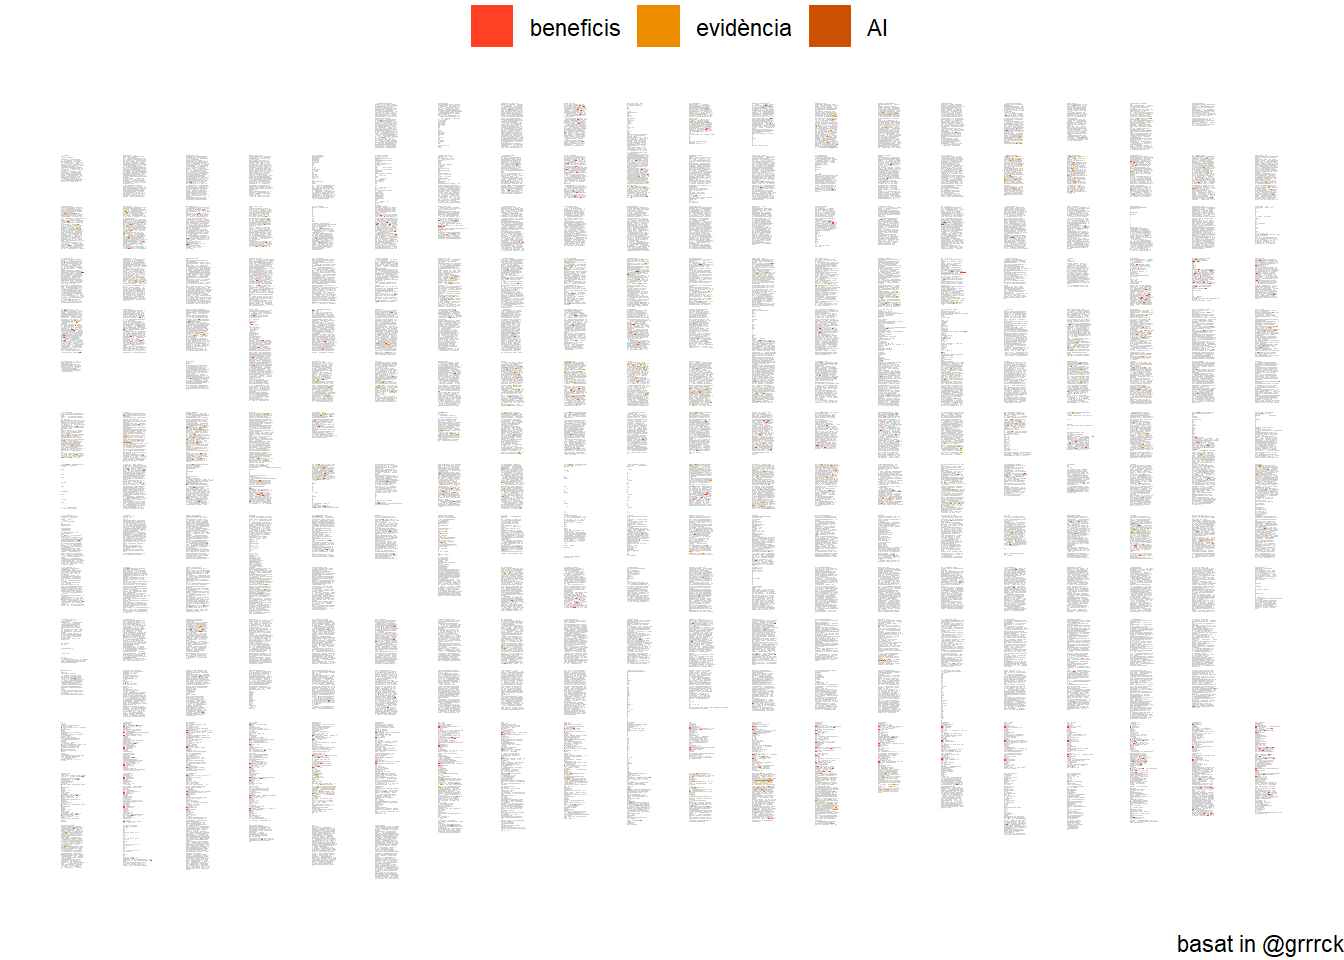
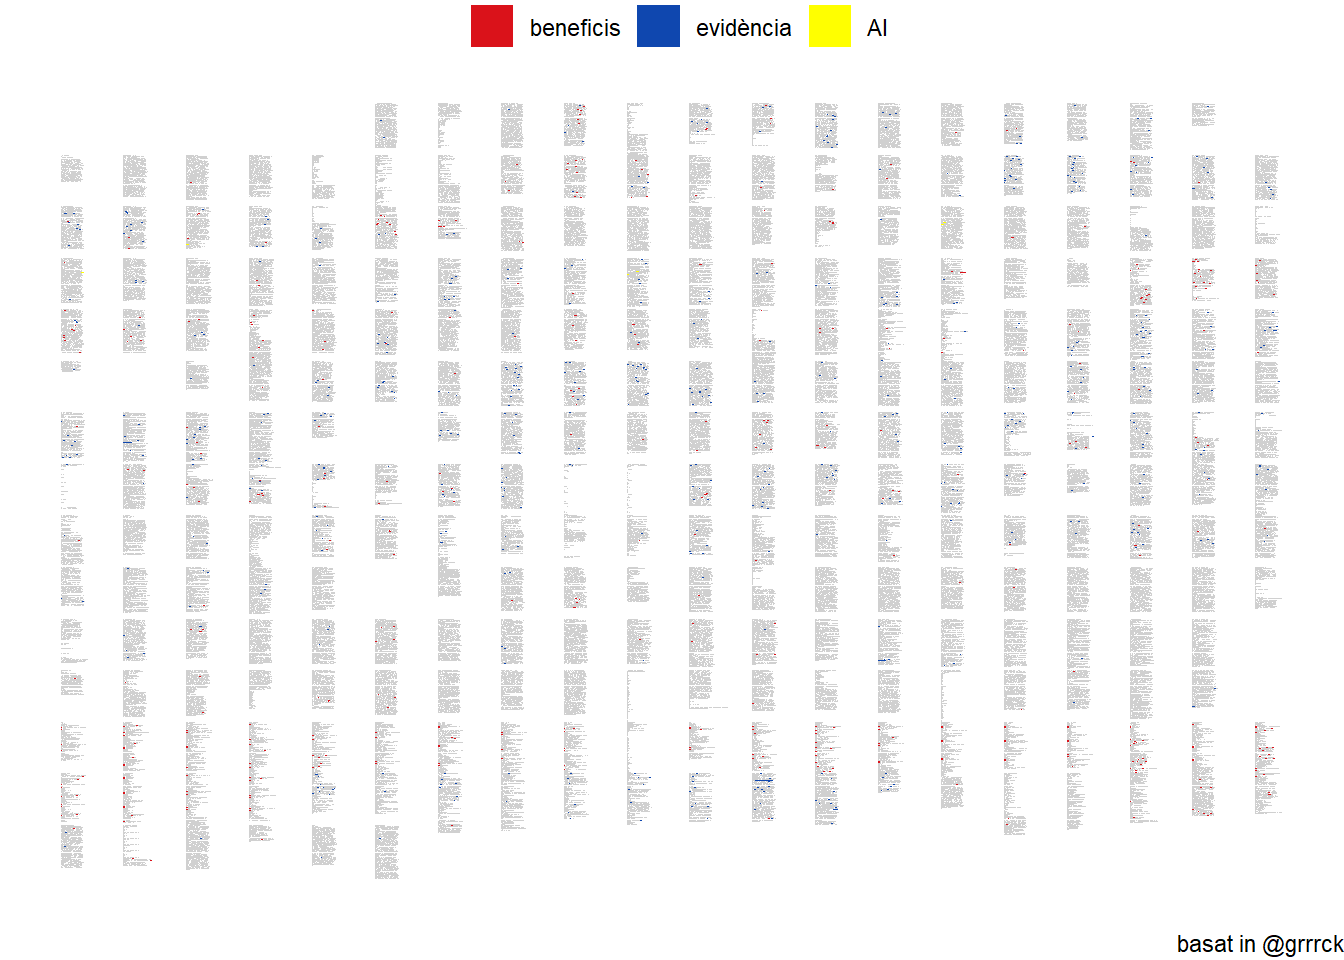
update

Changed region(s): [[0.5938, 0.0, 0.6562, 0.0625], [0.4688, 0.0, 0.5312, 0.0625], [0.3438, 0.0, 0.4062, 0.0625]]

diff --git a/blog/pdf-to-text/index.html b/blog/pdf-to-text/index.html
@@ -1179,7 +1179,6 @@ library(ggpage)
 library(tidytext)
 library(stringr)
 library(pdftools)
-library(tidyverse)
 
 #llegeixo pdf ja baixat de la URL (http://documents.worldbank.org/curated/en/993911574784667955/pdf/Exploring-Universal-Basic-Income-A-Guide-to-Navigating-Concepts-Evidence-and-Practices.pdf) al meu directori local i amb el paquet pdftools el transformo en un csv per a que estigui en format tidytext
 meu_text &lt;- pdftools::pdf_text(&quot;Exploring-Universal-Basic-Income-A-Guide-to-Navigating-Concepts-Evidence-and-Practices.pdf&quot;)
@@ -1214,11 +1213,10 @@ report_net &lt;- report_net %&gt;%
   anti_join(meus_stop_words)
 
 recompte_paraules &lt;- report_net %&gt;%
-  count(word, sort = TRUE) %&gt;%
-  filter(!str_detect(word, &quot;[0-9]&quot;)) # remove numbers
+  count(word, sort = TRUE)
 
 recompte_paraules</code></pre>
-<pre><code>## # A tibble: 10,109 x 2
+<pre><code>## # A tibble: 11,806 x 2
 ##    word          n
 ##    &lt;chr&gt;     &lt;int&gt;
 ##  1 income     1661
@@ -1231,23 +1229,23 @@ recompte_paraules</code></pre>
 ##  8 programs    455
 ##  9 policy      453
 ## 10 poverty     453
-## # ... with 10,099 more rows</code></pre>
+## # ... with 11,796 more rows</code></pre>
 <p>Els Països que apareixen més mencionats en aquest informe son: India (140), Brasil (66), Regne Unit (57), Indonesia (51), Russia (44), Chile (42), Mozambique i Finlandia (38).</p>
 <p>Puc fer un núvol de paraules per representar les paraules més freqüents</p>
 <pre class="r"><code>library(wordcloud)
 wordcloud(words = recompte_paraules$word, freq = recompte_paraules$n, min.freq = 1,
-          max.words=150, random.order=FALSE, rot.per=0.35, 
-          colors=brewer.pal(6, &quot;YlOrRd&quot;))</code></pre>
+          max.words=125, random.order=FALSE, rot.per=0.35, 
+          colors=brewer.pal(4, &quot;Set1&quot;))</code></pre>
 <p><img src="/blog/2020-03-29-pdf-to-text_files/figure-html/unnamed-chunk-3-1.png" width="672" /></p>
 <p>Estaria bé també veure si apareixen alguns conceptes que m’interessen com per exemple: “Intel·ligència Artificial”, “Gig-economy”, “zero-hour contracts”, o “auto-ocupació”,… i sobretot veure amb quins altres conceptes estan correlacionats.</p>
 <p>La funció <em>pairwise_cor()</em> del paquet <em>widyr</em> ens permet trobar les principals correlacions de paraules en base a si apareixen sovint en la mateixa secció del document.</p>
 <pre class="r"><code>library(widyr)
-#primer extraiem les paraules de cada capitol
+#primer extraiem les paraules del text
 unnested &lt;- meu_report %&gt;%
         unnest_tokens(word, text) %&gt;%
         filter(!word %in% meus_stop_words$word)
 
-#després usem la funció pairwise_cor per obtenir correlació
+#després usem la funció pairwise_cor per obtenir correlació a cada pàgina
 word_cor &lt;- unnested %&gt;%
    group_by(word) %&gt;%
    filter(n() &gt;= 15) %&gt;%
@@ -1332,11 +1330,11 @@ word_cor %&gt;%
 #fixar paleta de colors de ggthemes::pal_calc()
 colors &lt;- rep(&quot;&quot;, length(levels(pagines$color)))
 names(colors) &lt;- levels(pagines$color)
-colors[&quot;beneficis&quot;] &lt;- &quot;#FF4023&quot;
-colors[&quot;evidència&quot;] &lt;- &quot;#EE8C00&quot;
+colors[&quot;beneficis&quot;] &lt;- &quot;#DA121A&quot;
+colors[&quot;evidència&quot;] &lt;- &quot;#0F47AF&quot;
 colors[&quot;gig-economy&quot;] &lt;- &quot;#FE4722&quot;
 colors[&quot;zero-hour contracts&quot;] &lt;- &quot;#F6A414&quot;
-colors[&quot;AI&quot;] &lt;- &quot;#CC5102&quot;
+colors[&quot;AI&quot;] &lt;- &quot;#FFFF00&quot;
 colors[&quot;normal&quot;] &lt;- &quot;#d0d0d0&quot;
 
 
